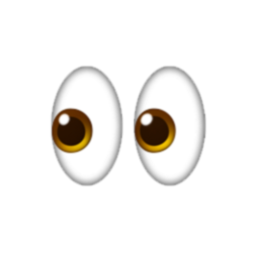
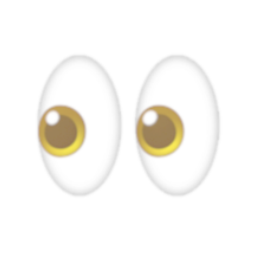
Updating phone mesh and textures

Changed region(s): [[0.125, 0.2188, 0.875, 0.7812], [0.2188, 0.25, 0.25, 0.2812], [0.1875, 0.2812, 0.2188, 0.3125]]

diff --git a/jetski/main.js b/jetski/main.js
@@ -443,7 +443,7 @@ const SCENE_CONFIG = {
     enabled: true,                          // Toggle to enable/disable 3D AR Phone
     unloadedColor: 0xddddff,                // Fallback flat color when textures unloaded
     scale: 0.0042,                           // Model scale factor
-    rotation: { x: 0, y: 96, z: 0 },        // Initial base rotation in degrees
+    rotation: { x: 0, y: 90, z: 0 },        // Initial base rotation in degrees
     floatFrequency: 0.002,                  // Bobbing float frequency
     floatAmplitude: 0.08,                   // Bobbing float amplitude
     hoverScale: 1.1,                       // Scale multiplier when hovered
@@ -459,7 +459,7 @@ const SCENE_CONFIG = {
     shadowOpacity: 0.5,                    // Shadow opacity factor
     materials: {
       phone: {
-        color: 0x39404d,                    // Phone body metal tint
+        color: 0x49505d,                    // Phone body metal tint
         roughness: 0.3,
         metalness: 0.8
       },
@@ -467,17 +467,17 @@ const SCENE_CONFIG = {
         color: 0x000000,                    // Glass screen dark tint
         emissive: 0xddddff,                 // Emissive display glow tint
         emissiveIntensity: 1.0,
-        emissiveMap: 'graphics/emojiface.png', // Emissive screen graphic texture path
+        emissiveMap: 'graphics/emojihuh.png', // Emissive screen graphic texture path
         roughness: 0.1,
         metalness: 0.0
       },
       camera: {
-        color: 0x242933,                    // Camera lens tint
+        color: 0x343943,                    // Camera lens tint
         roughness: 0.1,
         metalness: 0.8
       },
       cameraHouse: {
-        color: 0x39404d,                    // Camera bump housing tint
+        color: 0x49505d,                    // Camera bump housing tint
         roughness: 0.3,
         metalness: 0.8
       }
@@ -488,7 +488,7 @@ const SCENE_CONFIG = {
       hoverOutVolume: 0.15,
       hoverInSoundSrc: 'sound/arHover.ogg',
       hoverOutSoundSrc: 'sound/arOut.ogg',
-      hysteresisRadius: 1.25                // 3D ray-to-center radius (world units) to hold hover state
+      hysteresisRadius: 0.25                // 3D ray-to-center radius (world units) to hold hover state
     }
   },
 
